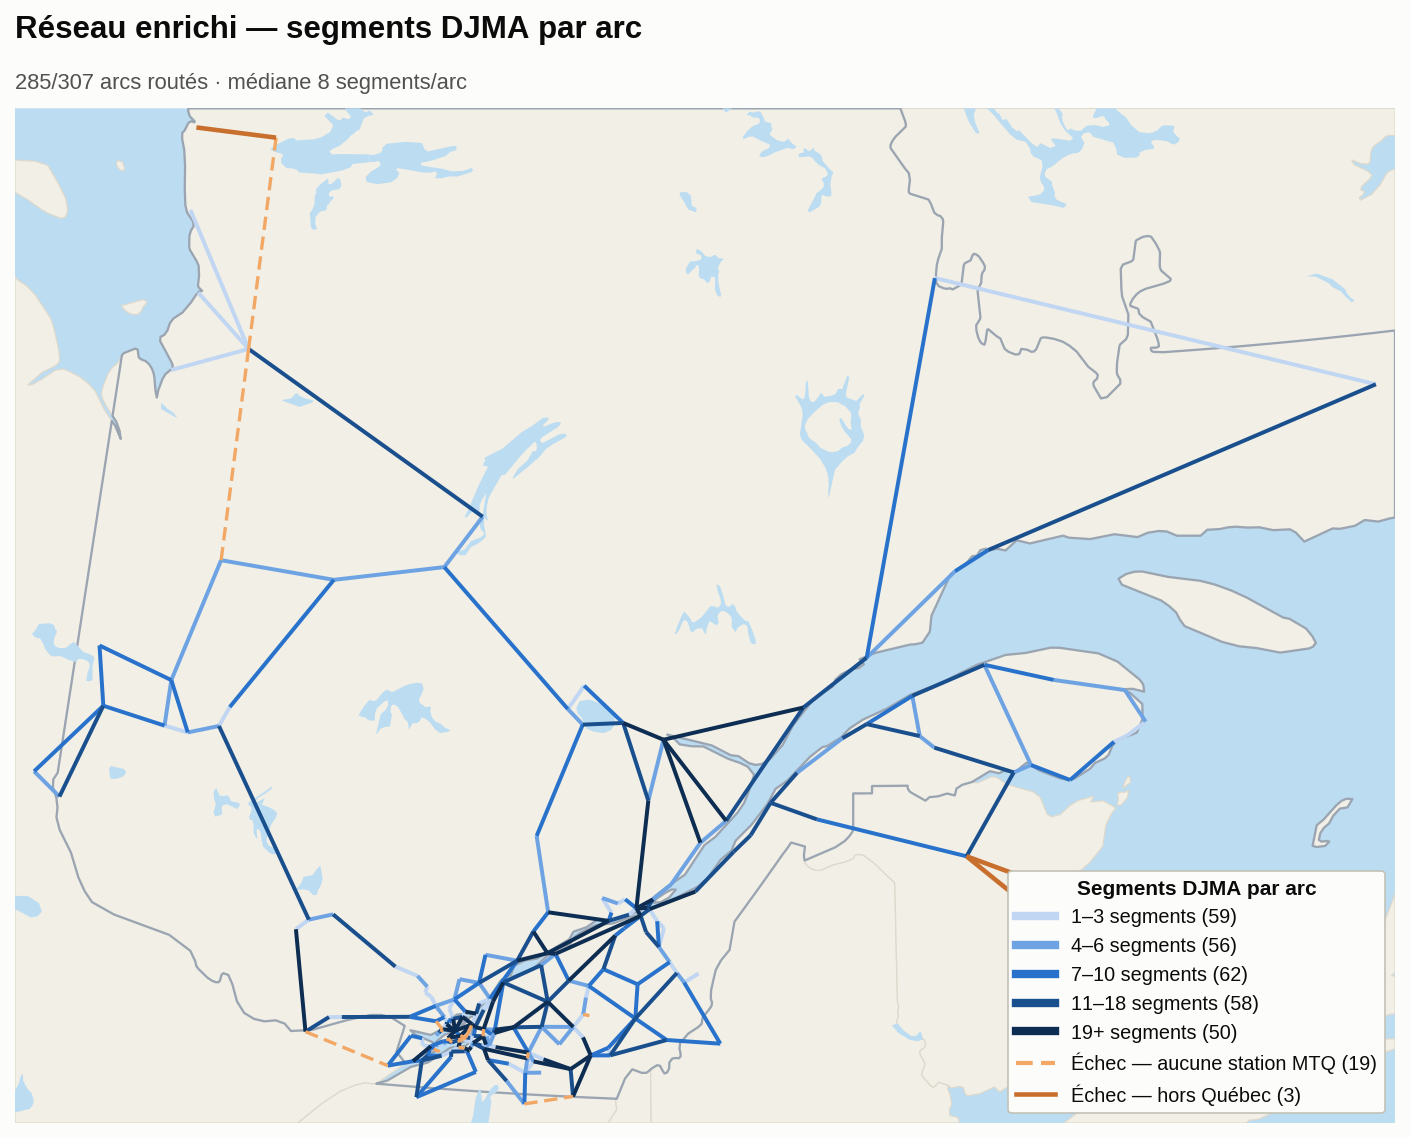
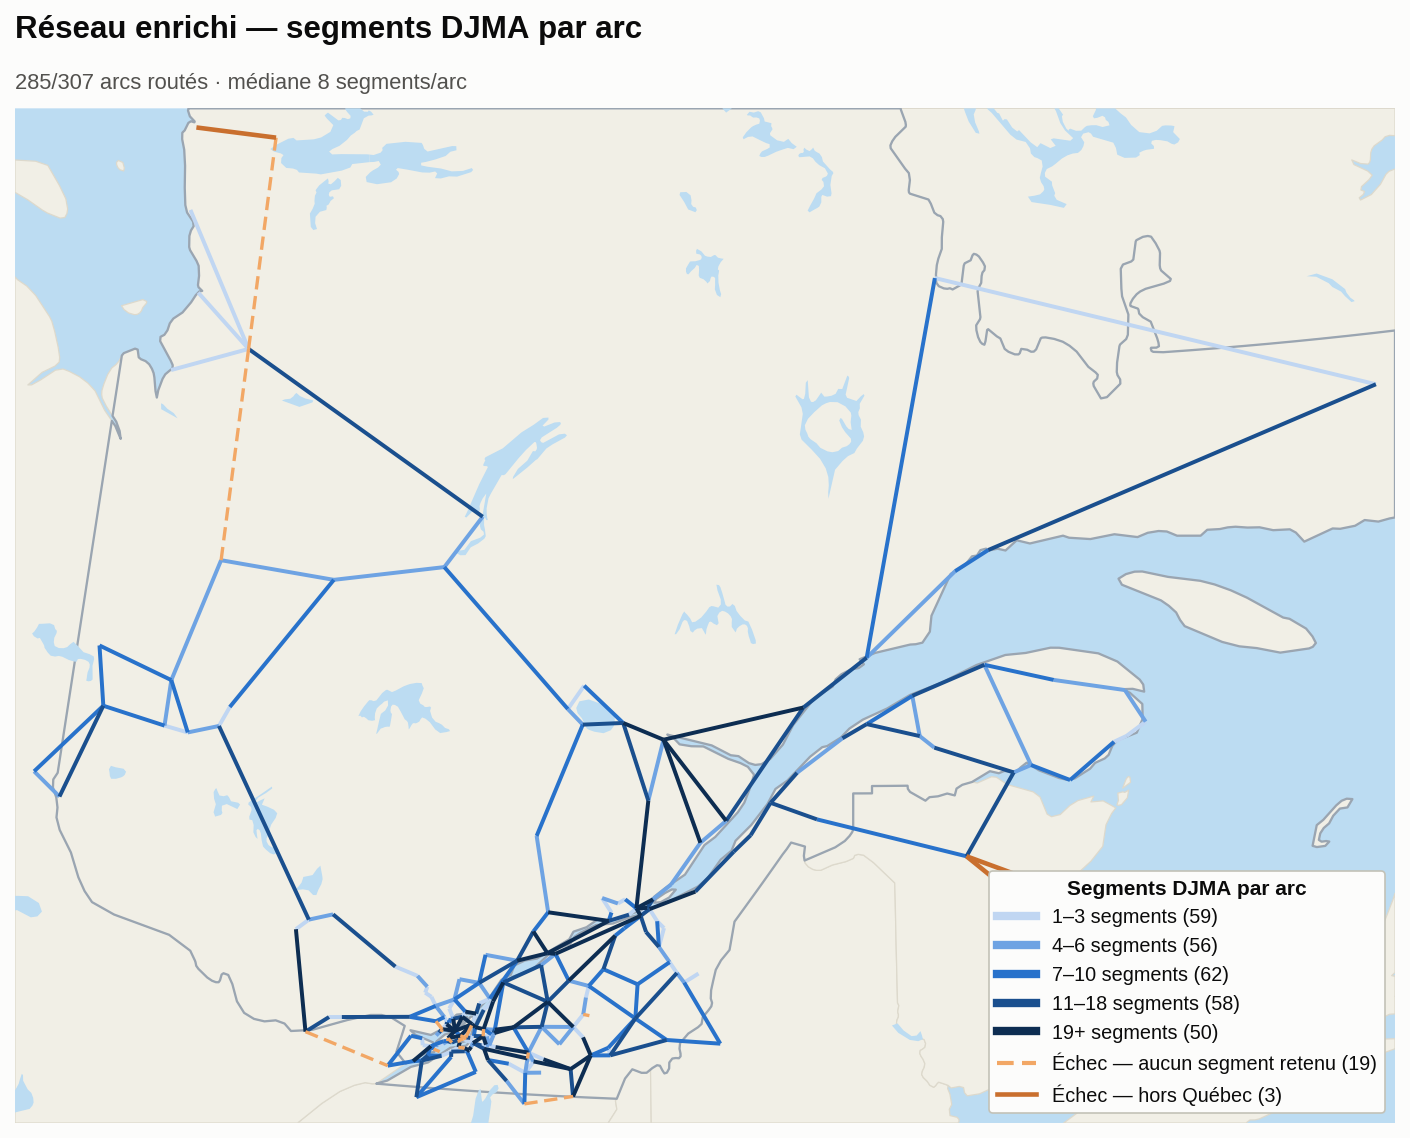
fix: légendes des figures alignées sur la cause réelle des échecs
- « Échec — aucune station MTQ » → « Échec — aucun segment retenu » (3 cartes)
- extrapolation_gradient : « Régression globale » / « Gradient local (méthode retenue) »
  à la place du vocabulaire interne ancienne/nouvelle méthode

Changed region(s): [[0.6865, 0.7689, 0.9362, 0.9842]]

diff --git a/scripts/generer_figures_resultats.py b/scripts/generer_figures_resultats.py
@@ -420,7 +420,7 @@ def figure_carte_reseau_resultats() -> None:
 
     legende_carte(ax, [
         Line2D([0], [0], color=ECHEC_INTRA, lw=2, linestyle=(0, (4, 2)),
-               label=f"Échec — aucune station MTQ ({len(echec_intra)})"),
+               label=f"Échec — aucun segment retenu ({len(echec_intra)})"),
         Line2D([0], [0], color=ECHEC_HORS_QC, lw=2.2,
                label=f"Échec — hors Québec ({len(echec_hqc)})"),
     ])
@@ -476,7 +476,7 @@ def figure_carte_montreal_resultats() -> None:
     cbar.set_label("DJMA — méthode m4 (véh./jour, échelle log)")
 
     legende_carte(ax, [Line2D([0], [0], color=ECHEC_INTRA, lw=2, linestyle=(0, (4, 2)),
-                              label=f"Échec — aucune station MTQ ({len(echec_intra)})")])
+                              label=f"Échec — aucun segment retenu ({len(echec_intra)})")])
 
     fig.tight_layout()
     fig.savefig(FIG_DIR / "carte_montreal_resultats.png", dpi=150, bbox_inches="tight")
@@ -528,7 +528,7 @@ def figure_segments_par_arc() -> None:
         for etiquette, couleur in zip(ETIQUETTES_SEGMENTS, COULEURS_SEGMENTS)
     ] + [
         Line2D([0], [0], color=ECHEC_INTRA, lw=2, linestyle=(0, (4, 2)),
-               label=f"Échec — aucune station MTQ ({len(echec_intra)})"),
+               label=f"Échec — aucun segment retenu ({len(echec_intra)})"),
         Line2D([0], [0], color=ECHEC_HORS_QC, lw=2.2,
                label=f"Échec — hors Québec ({len(echec_hqc)})"),
     ], titre="Segments DJMA par arc")

diff --git a/scripts/generer_figure_donnees.py b/scripts/generer_figure_donnees.py
@@ -391,9 +391,9 @@ def figure_extrapolation_gradient() -> None:
     legende_carte(ax, [
         Line2D([0], [0], color=ENCRE, lw=2, marker="o", markersize=7, label="Connu"),
         Line2D([0], [0], color=MUET, lw=1, linestyle="--", marker="^", markersize=7,
-              label="Ancienne méthode (régression globale)"),
+              label="Régression globale"),
         Line2D([0], [0], color=SAUMON, lw=1.8, marker="D", markersize=7,
-              label="Nouvelle méthode (gradient local)"),
+              label="Gradient local (méthode retenue)"),
     ], loc="lower center")
 
     fig.tight_layout(rect=(0, 0, 1, 0.94))

diff --git a/scripts/style_figures.py b/scripts/style_figures.py
@@ -83,7 +83,7 @@ CRITIQUE   = "#d03b3b"   # carte de divergence — écart de méthode le plus fo
 # Statut/échec sur une carte déjà colorée par une donnée continue (DJMA) :
 # teinte complémentaire/opposée sur le cercle chromatique (orange face au bleu),
 # claire plutôt que sombre — jamais rouge/vert saturé "feu de circulation".
-ECHEC_INTRA   = "#f2a765"   # échec — aucune station MTQ à proximité (intraurbain)
+ECHEC_INTRA   = "#f2a765"   # échec — aucun segment retenu après filtrage (surtout Grand Montréal)
 ECHEC_HORS_QC = "#c96f2e"   # échec — tracé hors territoire québécois
 
 
